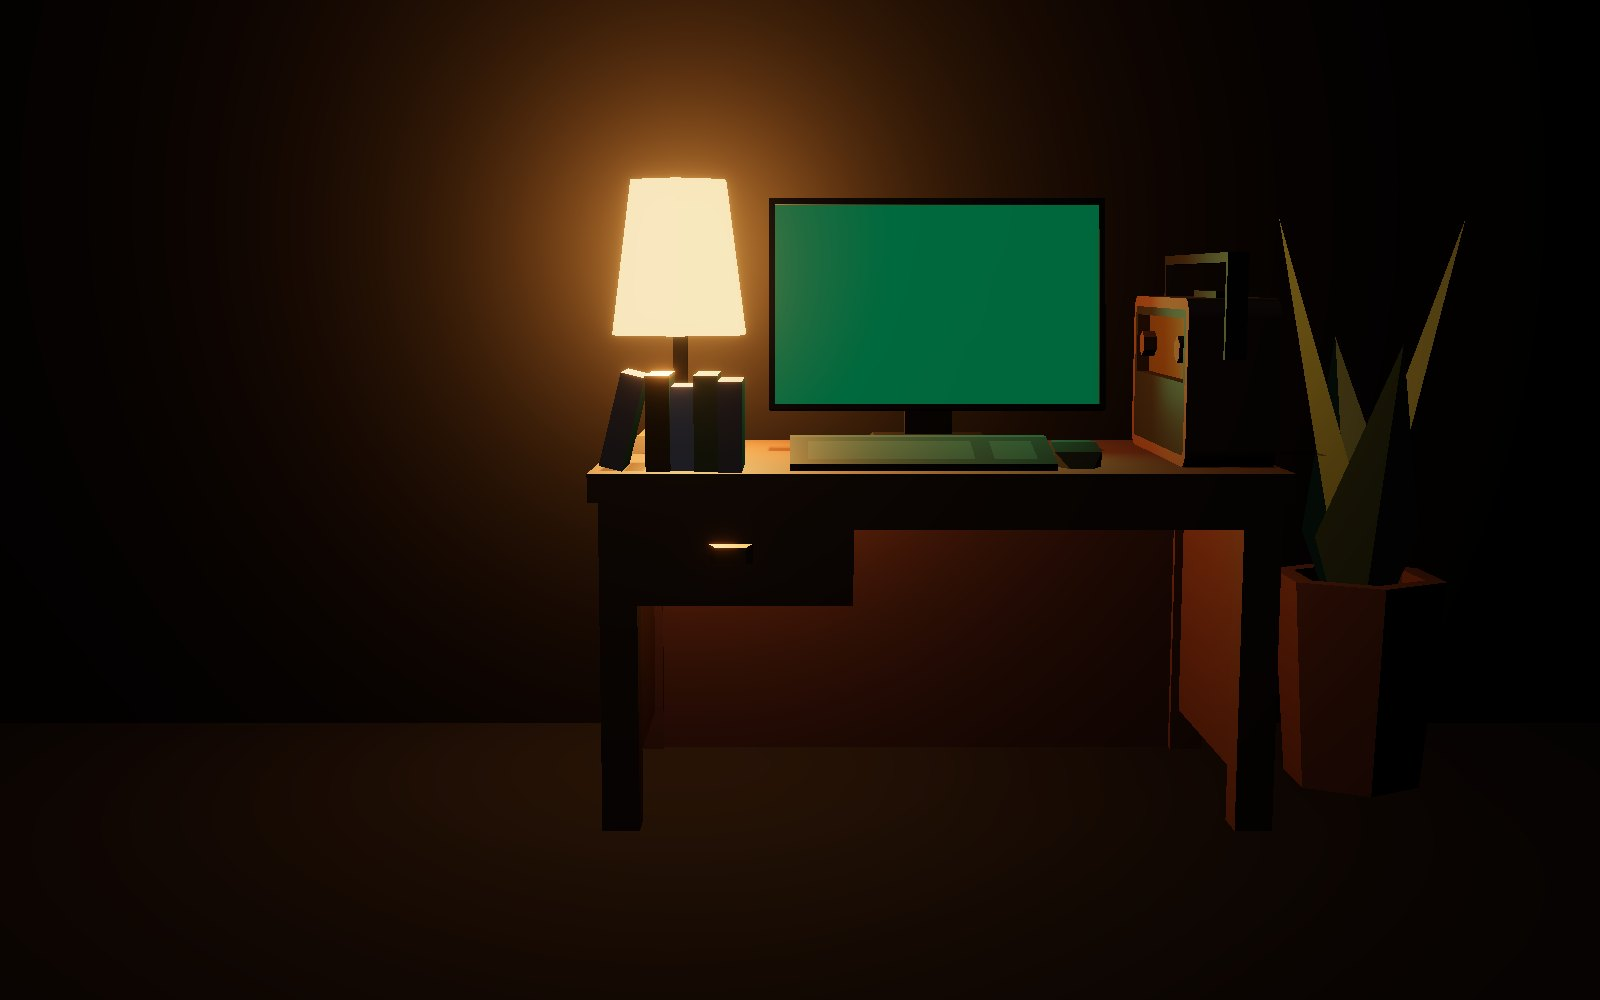
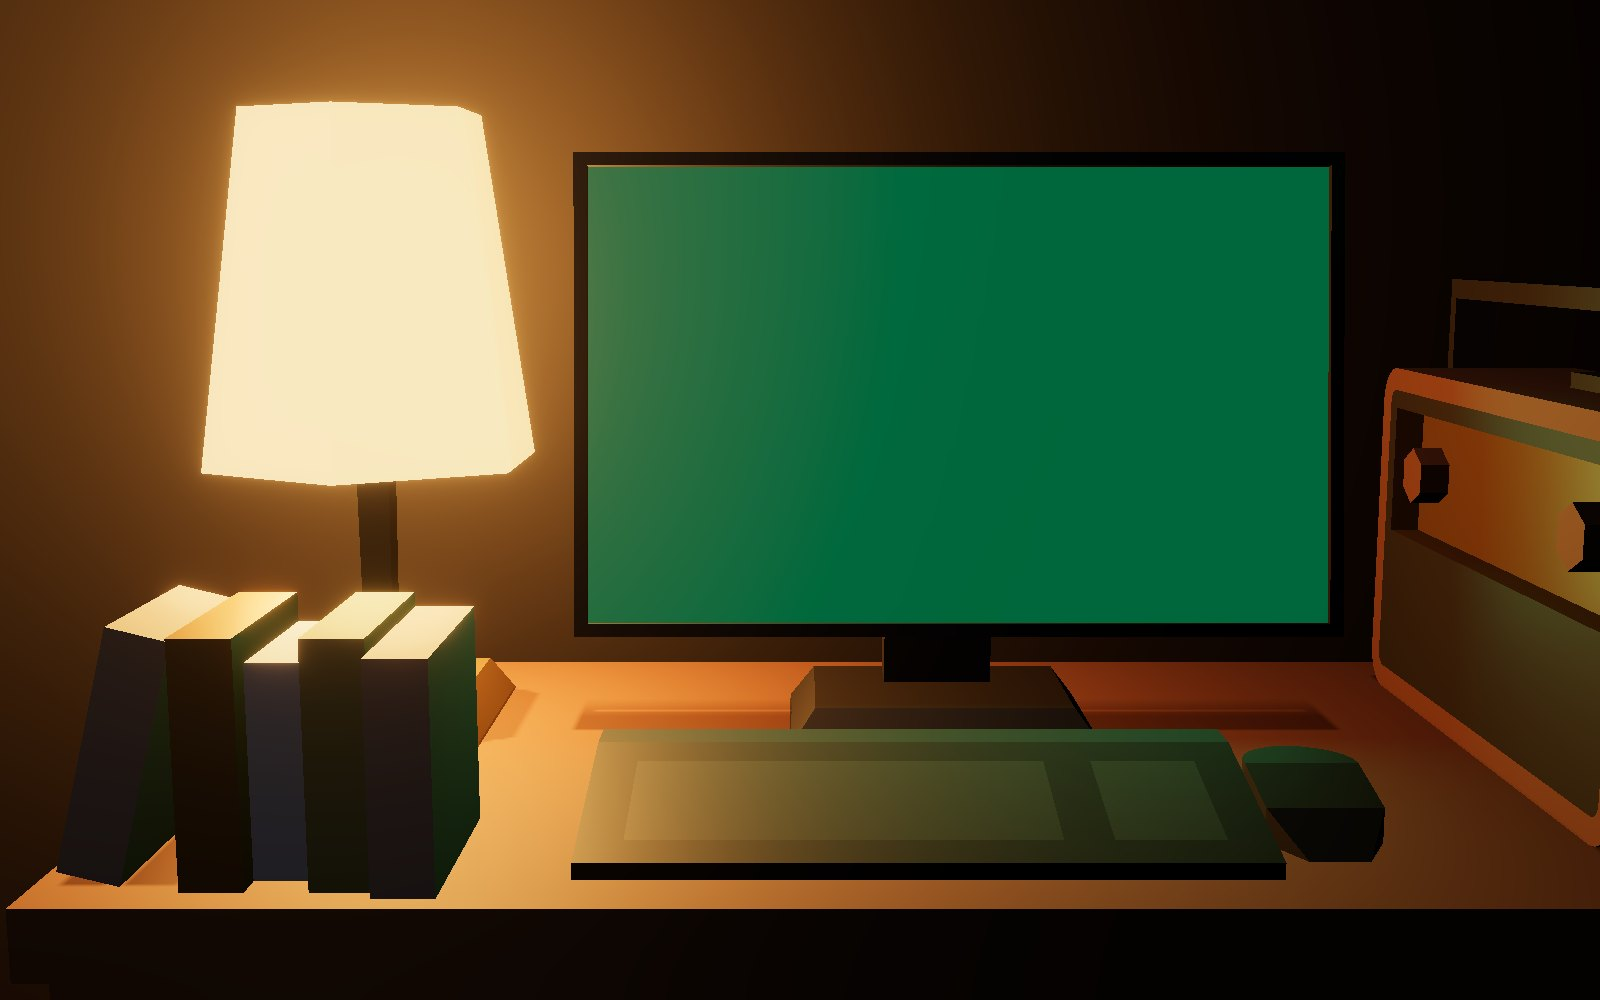
feat(hero): lay the 2d terminal on the monitor glass of a recaptured still
The still is recaptured from the closer still camera and the static hero
places its terminal on the measured glass: wide screens keep the desk, lamp
and keyboard visible around it, stacked screens crop the still to the
monitor so the terminal is in the first viewport below the name.

diff --git a/e2e/hero-still.spec.ts b/e2e/hero-still.spec.ts
@@ -1,0 +1,81 @@
+import { expect, test, type Page } from '@playwright/test';
+import { stubWebgl2 } from './helpers';
+
+// The static hero (no WebGL2): the 2D terminal sits on the monitor glass of the committed still.
+test.beforeEach(async ({ page }) => {
+  await stubWebgl2(page, 'none');
+});
+
+const rect = (page: Page, selector: string) =>
+  page.evaluate((sel) => {
+    const r = document.querySelector(sel)!.getBoundingClientRect();
+    return { left: r.left, top: r.top, width: r.width, height: r.height };
+  }, selector);
+
+test.describe('static hero still', () => {
+  test('wide: the terminal is on the glass and the desk stays visible around it', async ({
+    page,
+  }, testInfo) => {
+    test.skip(testInfo.project.name !== 'desktop', 'wide layout');
+    await page.goto('/es/');
+    const stage = await rect(page, '.hero-still');
+    const frame = await rect(page, '.hero-frame');
+    // A monitor-sized frame, not the whole still: the desk, lamp and keyboard show around it.
+    expect(frame.width / stage.width).toBeGreaterThan(0.38);
+    expect(frame.width / stage.width).toBeLessThan(0.55);
+    expect(frame.height / stage.height).toBeLessThan(0.55);
+    expect(frame.left - stage.left).toBeGreaterThan(0.3 * stage.width);
+    expect(frame.top + frame.height).toBeLessThan(stage.top + 0.85 * stage.height);
+    // The terminal text is readable: a line is at least 12 px tall.
+    const lineHeight = await page.evaluate(() =>
+      parseFloat(getComputedStyle(document.querySelector('.hero-frame .term-row')!).lineHeight),
+    );
+    expect(lineHeight).toBeGreaterThanOrEqual(12);
+  });
+
+  test('stacked: the terminal frame is inside the first viewport, on the still', async ({
+    page,
+  }, testInfo) => {
+    test.skip(testInfo.project.name !== 'mobile', 'stacked layout');
+    await page.goto('/es/');
+    const viewport = page.viewportSize()!;
+    const still = await rect(page, '.hero-still');
+    const frame = await rect(page, '.hero-frame');
+    const title = await rect(page, '#hero-title');
+    expect(title.top).toBeLessThan(viewport.height / 2);
+    expect(frame.top + frame.height).toBeLessThanOrEqual(viewport.height);
+    // The frame lies on the still (the monitor is cropped to the width), not below it.
+    expect(frame.top).toBeGreaterThanOrEqual(still.top);
+    expect(frame.top + frame.height).toBeLessThanOrEqual(still.top + still.height);
+    expect(frame.width / viewport.width).toBeGreaterThan(0.85);
+    await expect(page.locator('.hero-frame').getByRole('textbox')).toBeVisible();
+  });
+
+  test('stacked: the still is cropped to the monitor, the whole width is covered by the image', async ({
+    page,
+  }, testInfo) => {
+    test.skip(testInfo.project.name !== 'mobile', 'stacked layout');
+    await page.goto('/es/');
+    const still = await rect(page, '.hero-still');
+    const media = await rect(page, '.hero-still-media');
+    expect(media.left).toBeLessThanOrEqual(still.left + 0.5);
+    expect(media.left + media.width).toBeGreaterThanOrEqual(still.left + still.width - 0.5);
+    // Scaled up so the monitor fills the width: far wider than the viewport it is cropped into.
+    expect(media.width).toBeGreaterThan(1.6 * still.width);
+  });
+
+  test('tablet: the frame sits on the cropped still within the first viewport', async ({
+    page,
+  }, testInfo) => {
+    test.skip(testInfo.project.name !== 'desktop', 'sets its own viewport');
+    await page.setViewportSize({ width: 768, height: 1024 });
+    await page.goto('/es/');
+    const still = await rect(page, '.hero-still');
+    const frame = await rect(page, '.hero-frame');
+    expect(frame.top + frame.height).toBeLessThanOrEqual(1024);
+    expect(frame.top).toBeGreaterThanOrEqual(still.top);
+    expect(frame.top + frame.height).toBeLessThanOrEqual(still.top + still.height);
+    expect(frame.left).toBeGreaterThanOrEqual(still.left);
+    expect(frame.left + frame.width).toBeLessThanOrEqual(still.left + still.width + 0.5);
+  });
+});

diff --git a/src/styles/global.css b/src/styles/global.css
@@ -341,6 +341,87 @@
     position: static;
     margin-top: 0;
   }
+
+  /* The lamp sits under the copy in the still: fade the left of the frame into the page. */
+  .hero:not([data-hero-mode='3d']) .hero-still::after {
+    content: '';
+    position: absolute;
+    inset: 0;
+    background: linear-gradient(
+      to right,
+      color-mix(in srgb, var(--color-bg) 94%, transparent) 0%,
+      color-mix(in srgb, var(--color-bg) 82%, transparent) 22%,
+      transparent 44%
+    );
+    pointer-events: none;
+  }
+}
+
+/*
+ * Stacked static hero: the still is cropped around the monitor glass (--n-* from Hero.astro, all in
+ * cqw of the stage) and the 2D terminal sits on that glass, so it is in the first viewport right
+ * below the name. The glass is wider than tall, so on a phone it is shorter than a usable terminal
+ * (44 px touch rows and the status bars): the frame starts on the glass and grows down over the
+ * stand to --hero-frame-min, and the crop grows with it. In 3D the stack is the plain one above:
+ * the canvas fills a 4:3 box and the terminal frame stays below it.
+ */
+@media (max-width: 1023px) {
+  .hero:not([data-hero-mode='3d']) .hero-stage {
+    --hero-frame-min: 17rem;
+    display: grid;
+    grid-template-columns: minmax(0, 1fr);
+    max-width: 40rem;
+    margin-inline: auto;
+  }
+
+  .hero:not([data-hero-mode='3d']) .hero-still {
+    grid-area: 2 / 1;
+    aspect-ratio: auto;
+    /* Frame bottom plus room for the 3D toggle underneath. */
+    height: max(var(--n-box-h), calc(var(--n-glass-y) + var(--hero-frame-min) + 3.5rem));
+  }
+
+  .hero:not([data-hero-mode='3d']) .hero-still picture {
+    display: block;
+  }
+
+  .hero:not([data-hero-mode='3d']) .hero-still-media {
+    width: var(--n-media-w);
+    height: auto;
+    max-width: none;
+    margin-left: var(--n-media-x);
+    margin-top: var(--n-media-y);
+  }
+
+  .hero:not([data-hero-mode='3d']) .hero-monitor {
+    grid-area: 2 / 1;
+    position: relative;
+    z-index: 1;
+    padding: 0;
+    pointer-events: none;
+  }
+
+  .hero:not([data-hero-mode='3d']) .hero-island {
+    position: absolute;
+    inset: 0;
+  }
+
+  .hero:not([data-hero-mode='3d']) .hero-frame {
+    position: absolute;
+    left: var(--n-glass-x);
+    top: var(--n-glass-y);
+    width: var(--n-glass-w);
+    height: max(var(--n-glass-h), var(--hero-frame-min));
+    pointer-events: auto;
+  }
+
+  .hero:not([data-hero-mode='3d']) .hero-controls {
+    position: absolute;
+    right: 0.75rem;
+    bottom: 0.5rem;
+    margin: 0;
+    pointer-events: auto;
+  }
 }
 
 /*

diff --git a/src/lib/hero/layout.ts b/src/lib/hero/layout.ts
@@ -154,7 +154,8 @@ const STILL_SUBJECT_IDS: readonly HeroModelId[] = [
   'computerKeyboard',
   'computerMouse',
 ];
-const STILL_FOV = 28;
+/** The camera rig only moves the camera, so the still shares the rest pose's field of view. */
+const STILL_FOV = REST_FOV;
 const STILL_MARGIN = 0.03;
 /** Nearly level, so the glass (tilted back about 8 degrees) is seen almost head-on. */
 const STILL_ELEVATION = 0.12;

diff --git a/src/lib/hero/still-layout.ts b/src/lib/hero/still-layout.ts
@@ -21,8 +21,8 @@ export interface NarrowStillOptions {
 }
 
 export const NARROW_STILL_DEFAULTS: NarrowStillOptions = {
-  fill: 0.92,
-  padTop: 0.04,
+  fill: 0.9,
+  padTop: 0.08,
   padBottom: 0.14,
   aspect: STILL_ASPECT,
 };
